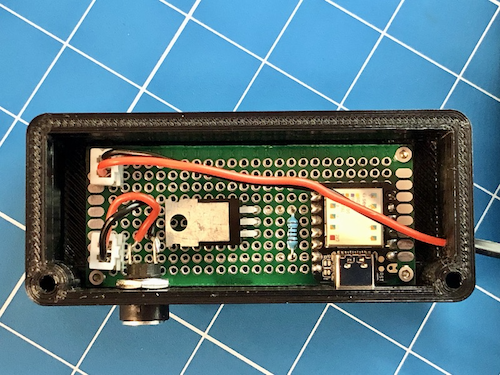
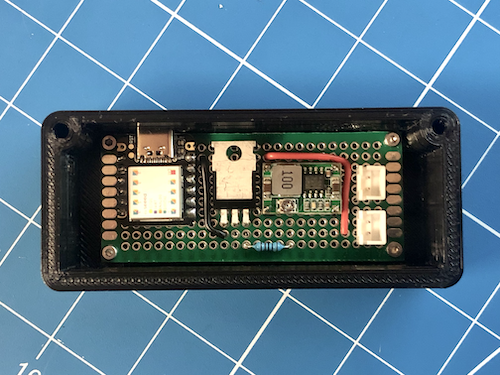
Added note about LED strip voltage rating

diff --git a/README.md b/README.md
@@ -94,9 +94,11 @@ The STL files you will find in the `3D_Files/STL/` folder are just a starting po
 
 ## Electronic Circuit
 
-The electronics circuit is trivial. I included a Fritzing file in the `Electronics/` folder. Here are the schematics:
+The electronics circuit is pretty trivial. I included a Fritzing file in the `Electronics/` folder. Here are the schematics:
 
 ![Circuit Board Box](images/electronics.png)
+
+**IMPORTANT:** When I first tested my circuit, I noticed that the LED strip was flickering. This could not be due to PWM because the microcontroller I am using emits a signal at 490Hz. For a long time, I thought that there was a bad connection somewhere, but it turned out to be something completely different. The LED strip that I had purchased was rated for 12V. I was under the assumption that I could feed it a slightly higher voltage without any issues (most devices that take in 12V usually work well wihin a range around that median value) but it turned out that the strip's operating range was between 7V and 12V! Since my portable field battery has a voltage of between 12.8V and 13.4V, I had to use a buck converter (in the form of a MINI360) to bring the voltage down to 10V. After that small modification, the flickering is gone and the panel works very well!
 
 Here is what the finished electronic circuit looks like:
 
